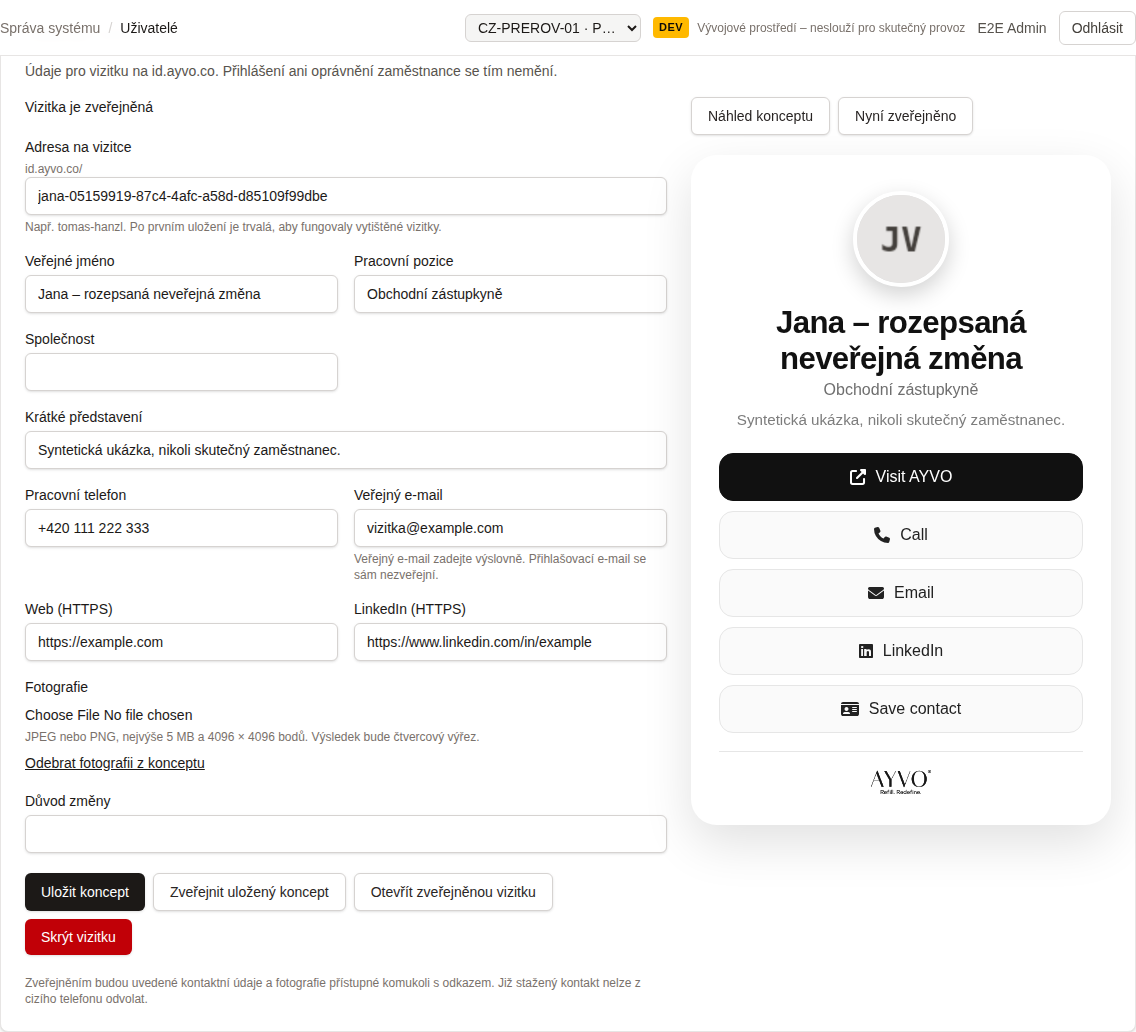
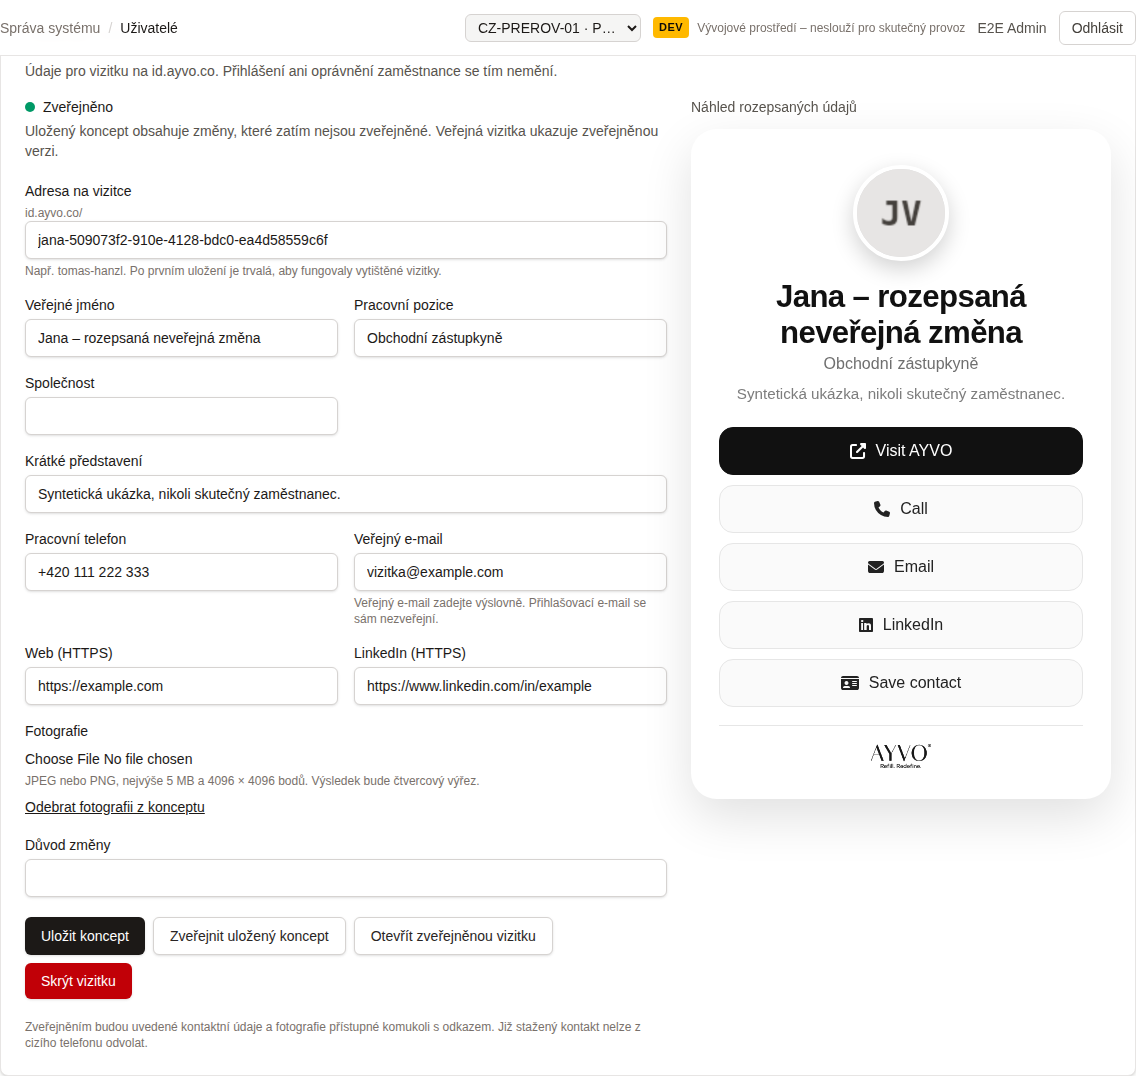
feat(web): one publication status on the card editor instead of preview toggles
Owner request 2026-10-24: the "Náhled konceptu" / "Nyní zveřejněno" toggles did not read as
working controls. The editor now shows the server's state once — green dot + "Zveřejněno" or
red dot + "Nezveřejněno" (the dot aria-hidden, the text in a status region) — from a valid
publication of an active account, never from the form. A saved, different draft stays green
with one note that its changes are not public yet; a deactivated account keeps its explanation.
The live preview of the form stays, labelled by a heading. Save, publish, hide, the link to the
published card, reasons, versions, conflicts and every server rule are unchanged; no API change.

e2e (synthetic people): new/unsaved/saved card red, published green, saved different draft
still green (also after reload), hidden red, deactivation red with explanation, reactivation
red without republishing; the removed toggles are no buttons. Screenshots 1440/390/320 updated.

diff --git a/apps/web/e2e/employee-cards.spec.ts b/apps/web/e2e/employee-cards.spec.ts
@@ -2,9 +2,18 @@ import { mkdir, readFile } from 'node:fs/promises';
 import { resolve } from 'node:path';
 import { createHash, randomUUID } from 'node:crypto';
 import { createRequire } from 'node:module';
-import { expect, test } from '@playwright/test';
+import { expect, test, type Locator } from '@playwright/test';
 
 test.use({ storageState: 'e2e/.auth/admin.json' });
+
+/** The one publication status: the server's state as text, the dot only decorative. */
+async function expectPublication(editor: Locator, state: 'Zveřejněno' | 'Nezveřejněno') {
+  const status = editor.getByTestId('employee-card-publication');
+  await expect(status.locator('p').first()).toHaveText(state);
+  await expect(status.locator('[aria-hidden="true"]')).toHaveClass(
+    state === 'Zveřejněno' ? /bg-emerald-600/ : /bg-red-600/,
+  );
+}
 
 test('concurrent first save keeps edited fields but adopts the permanent address from the server', async ({
   page,
@@ -86,6 +95,11 @@ test('admin prepares and publishes a card; draft and hidden data never appear pu
   const editor = page.getByTestId('employee-card-editor');
   await editor.getByRole('button', { name: 'Otevřít nastavení vizitky' }).click();
   await expect(editor.getByLabel('Veřejný e-mail', { exact: true })).toHaveValue('');
+  await expectPublication(editor, 'Nezveřejněno');
+  // The preview is labelled by a heading; the former preview toggles are gone.
+  await expect(editor.getByRole('heading', { name: 'Náhled rozepsaných údajů' })).toBeVisible();
+  for (const name of ['Náhled konceptu', 'Nyní zveřejněno', 'Náhled rozepsaných údajů'])
+    await expect(editor.getByRole('button', { name })).toHaveCount(0);
   await editor.getByLabel('Adresa na vizitce').fill(slug);
   await editor.getByLabel('Pracovní pozice', { exact: true }).fill('Obchodní zástupkyně');
   await editor
@@ -118,11 +132,14 @@ test('admin prepares and publishes a card; draft and hidden data never appear pu
   await editor.getByRole('button', { name: 'Uložit koncept', exact: true }).click();
   await expect(editor.getByText('Koncept uložen. Veřejná vizitka se nezměnila.')).toBeVisible();
   expect((await page.request.get(`/api/public/employee-cards/${slug}`)).status()).toBe(404);
+  await expectPublication(editor, 'Nezveřejněno');
   await editor
     .getByLabel('Důvod změny', { exact: true })
     .fill('Výslovné zveřejnění testovací vizitky');
   await editor.getByRole('button', { name: 'Zveřejnit uložený koncept' }).click();
   await expect(editor.getByText('Uložený koncept byl zveřejněn.')).toBeVisible();
+  await expectPublication(editor, 'Zveřejněno');
+  await expect(editor.getByText('obsahuje změny, které zatím nejsou zveřejněné')).toHaveCount(0);
   const publishedLink = editor.getByRole('link', { name: 'Otevřít zveřejněnou vizitku' });
   await expect(publishedLink).toHaveAttribute('href', `/id/${slug}`);
   await expect(publishedLink).toHaveAttribute('target', '_blank');
@@ -198,10 +215,14 @@ test('admin prepares and publishes a card; draft and hidden data never appear pu
   await editor.getByLabel('Důvod změny', { exact: true }).fill('Pouze koncept změny jména');
   await editor.getByRole('button', { name: 'Uložit koncept', exact: true }).click();
   await expect(editor.getByText('Koncept uložen. Veřejná vizitka se nezměnila.')).toBeVisible();
+  // A saved, different draft leaves the valid publication public — still green.
+  await expectPublication(editor, 'Zveřejněno');
+  await expect(editor.getByText('obsahuje změny, které zatím nejsou zveřejněné')).toBeVisible();
   await publicPage.reload();
   await expect(publicPage.getByRole('heading', { name: 'Jana Vizitková' })).toBeVisible();
   await page.reload();
   await editor.getByRole('button', { name: 'Otevřít nastavení vizitky' }).click();
+  await expectPublication(editor, 'Zveřejněno');
   await expect(editor.getByLabel('Veřejné jméno')).toHaveValue('Jana – rozepsaná neveřejná změna');
   await expect(editor.getByLabel('Adresa na vizitce')).toHaveAttribute('readonly', '');
   const previewPhoto = editor.getByRole('img', {
@@ -289,6 +310,7 @@ test('admin prepares and publishes a card; draft and hidden data never appear pu
   await editor.getByLabel('Důvod změny', { exact: true }).fill('Skrytí testovací vizitky');
   await editor.getByRole('button', { name: 'Skrýt vizitku', exact: true }).click();
   await expect(editor.getByText('Vizitka byla skryta.')).toBeVisible();
+  await expectPublication(editor, 'Nezveřejněno');
   await expect(publishedLink).toHaveCount(0);
   await expect(editor.getByLabel('Veřejné jméno')).toHaveValue('Nesmí se ztratit při skrytí');
   expect((await anonymous.request.get(`/id/${slug}`)).status()).toBe(404);
@@ -297,4 +319,71 @@ test('admin prepares and publishes a card; draft and hidden data never appear pu
   await expect(publicPage.getByRole('heading', { name: 'Contact unavailable' })).toBeVisible();
   await expect(publicPage.getByRole('link')).toHaveCount(0);
   await anonymous.close();
+});
+
+test('deactivation unpublishes the card; reactivation does not publish it again', async ({
+  page,
+}) => {
+  const slug = `petr-${randomUUID()}`;
+  const created = await page.request.post('/api/admin/identity/users', {
+    data: {
+      email: `employee-${randomUUID()}@ayvo.test`,
+      displayName: 'Petr Syntetický',
+      roles: ['SALES'],
+      siteIds: [],
+      warehouseCodes: [],
+      reason: 'synthetic business-card status test',
+    },
+  });
+  expect(created.status()).toBe(201);
+  const user = (await created.json()) as { id: string };
+  const base = `/api/admin/identity/users/${user.id}/business-card`;
+  const fields = {
+    name: 'Petr Syntetický',
+    role: 'Test',
+    company: '',
+    tagline: '',
+    phone: '',
+    email: '',
+    website: '',
+    linkedin: '',
+    photoId: null,
+  };
+  const saved = await page.request.post(base, {
+    data: { requestId: randomUUID(), expectedVersion: 0, reason: 'synthetic', slug, fields },
+  });
+  expect(saved.status()).toBe(200);
+  const version = ((await saved.json()) as { card: { version: number } }).card.version;
+  expect(
+    (
+      await page.request.post(`${base}/publish`, {
+        data: { requestId: randomUUID(), expectedVersion: version, reason: 'synthetic' },
+      })
+    ).status(),
+  ).toBe(200);
+  const editor = page.getByTestId('employee-card-editor');
+  const open = async () => {
+    await page.goto(`/admin/users/${user.id}`);
+    await editor.getByRole('button', { name: 'Otevřít nastavení vizitky' }).click();
+  };
+  await open();
+  await expectPublication(editor, 'Zveřejněno');
+
+  const status = (action: 'deactivate' | 'reactivate') =>
+    page.request.post(`/api/admin/identity/users/${user.id}/${action}`, {
+      data: { reason: `synthetic ${action}` },
+    });
+  expect((await status('deactivate')).ok()).toBe(true);
+  await open();
+  await expectPublication(editor, 'Nezveřejněno');
+  await expect(editor.getByText('Účet je deaktivovaný.', { exact: false })).toBeVisible();
+  await expect(editor.getByRole('link', { name: 'Otevřít zveřejněnou vizitku' })).toHaveCount(0);
+  expect((await page.request.get(`/api/public/employee-cards/${slug}`)).status()).toBe(404);
+
+  expect((await status('reactivate')).ok()).toBe(true);
+  await open();
+  await expectPublication(editor, 'Nezveřejněno');
+  await expect(editor.getByText('Účet je deaktivovaný.', { exact: false })).toHaveCount(0);
+  await expect(editor.getByRole('button', { name: 'Zveřejnit uložený koncept' })).toBeEnabled();
+  expect((await page.request.get(`/api/public/employee-cards/${slug}`)).status()).toBe(404);
 });

diff --git a/apps/web/src/components/admin/employee-card-editor.tsx b/apps/web/src/components/admin/employee-card-editor.tsx
@@ -46,7 +46,6 @@ export function EmployeeCardEditor({
   const [status, setStatus] = useState('');
   const [stale, setStale] = useState(false);
   const [serverDraft, setServerDraft] = useState<EmployeeCardFields | null>(null);
-  const [showPublished, setShowPublished] = useState(false);
   const [pending, setPending] = useState<{ json: string; requestId: string } | null>(null);
   const dirty =
     JSON.stringify(fields) !== JSON.stringify(card?.draft ?? emptyFields(displayName)) ||
@@ -159,7 +158,10 @@ export function EmployeeCardEditor({
     }
   }
 
-  const preview = showPublished && card?.published ? card.published : fields;
+  // The server's publication, never the form: an edit or a saved draft leaves a valid
+  // publication public. Deactivation removes the publication in the database.
+  const isPublic = active && !!card?.published;
+  const draftDiffers = isPublic && JSON.stringify(card!.draft) !== JSON.stringify(card!.published);
   return (
     <Card title={t.title} id="vizitka" testId="employee-card-editor">
       <p className="mb-4 text-sm text-stone-600">{t.description}</p>
@@ -178,9 +180,20 @@ export function EmployeeCardEditor({
       ) : (
         <div className="grid items-start gap-6 xl:grid-cols-[minmax(0,1fr)_minmax(320px,420px)]">
           <div className="min-w-0 space-y-5">
-            <p className="text-sm font-medium" role="status">
-              {!active ? t.inactive : card?.published ? t.published : card ? t.hidden : t.draft}
-            </p>
+            <div role="status" data-testid="employee-card-publication">
+              <p className="flex items-center gap-2 text-sm font-medium">
+                <span
+                  aria-hidden="true"
+                  className={`inline-block size-2.5 shrink-0 rounded-full ${isPublic ? 'bg-emerald-600' : 'bg-red-600'}`}
+                />
+                {isPublic ? t.statusPublished : t.statusUnpublished}
+              </p>
+              {(!active || draftDiffers) && (
+                <p className="mt-1 text-sm text-stone-600">
+                  {!active ? t.inactive : t.draftDiffers}
+                </p>
+              )}
+            </div>
             <fieldset disabled={busy} className="grid min-w-0 gap-4 sm:grid-cols-2">
               <label className="sm:col-span-2">
                 <span className="mb-1 block text-sm font-medium">{t.slug}</span>
@@ -358,29 +371,10 @@ export function EmployeeCardEditor({
             <p className="text-xs text-stone-500">{t.publicationNotice}</p>
           </div>
           <div className="min-w-0 border-t border-stone-200 pt-5 xl:sticky xl:top-6 xl:border-t-0 xl:pt-0">
-            <div className="mb-5 flex flex-wrap gap-2">
-              <button
-                type="button"
-                aria-pressed={!showPublished}
-                className={buttonClass.secondary}
-                onClick={() => setShowPublished(false)}
-              >
-                {t.preview}
-              </button>
-              {card?.published && (
-                <button
-                  type="button"
-                  aria-pressed={showPublished}
-                  className={buttonClass.secondary}
-                  onClick={() => setShowPublished(true)}
-                >
-                  {t.publishedPreview}
-                </button>
-              )}
-            </div>
+            <h3 className="mb-3 text-sm font-medium text-stone-600">{t.preview}</h3>
             <EmployeeCard
-              fields={preview}
-              photoUrl={preview.photoId ? `/api/${base}/photos/${preview.photoId}` : undefined}
+              fields={fields}
+              photoUrl={fields.photoId ? `/api/${base}/photos/${fields.photoId}` : undefined}
               preview
               contactUrl="#"
             />

diff --git a/apps/web/src/i18n/cs/employee-cards.ts b/apps/web/src/i18n/cs/employee-cards.ts
@@ -12,9 +12,10 @@ export const employeeCardsCs = {
     website: 'Web (HTTPS)',
     linkedin: 'LinkedIn (HTTPS)',
   },
-  draft: 'Koncept – není veřejný',
-  published: 'Vizitka je zveřejněná',
-  hidden: 'Vizitka je skrytá',
+  statusPublished: 'Zveřejněno',
+  statusUnpublished: 'Nezveřejněno',
+  draftDiffers:
+    'Uložený koncept obsahuje změny, které zatím nejsou zveřejněné. Veřejná vizitka ukazuje zveřejněnou verzi.',
   saved: 'Koncept uložen. Veřejná vizitka se nezměnila.',
   publishedSuccess: 'Uložený koncept byl zveřejněn.',
   hiddenSuccess: 'Vizitka byla skryta.',
@@ -25,8 +26,7 @@ export const employeeCardsCs = {
   publish: 'Zveřejnit uložený koncept',
   hide: 'Skrýt vizitku',
   reload: 'Načíst aktuální stav',
-  preview: 'Náhled konceptu',
-  publishedPreview: 'Nyní zveřejněno',
+  preview: 'Náhled rozepsaných údajů',
   openPublished: 'Otevřít zveřejněnou vizitku',
   slug: 'Adresa na vizitce',
   slugHelp: 'Např. tomas-hanzl. Po prvním uložení je trvalá, aby fungovaly vytištěné vizitky.',
